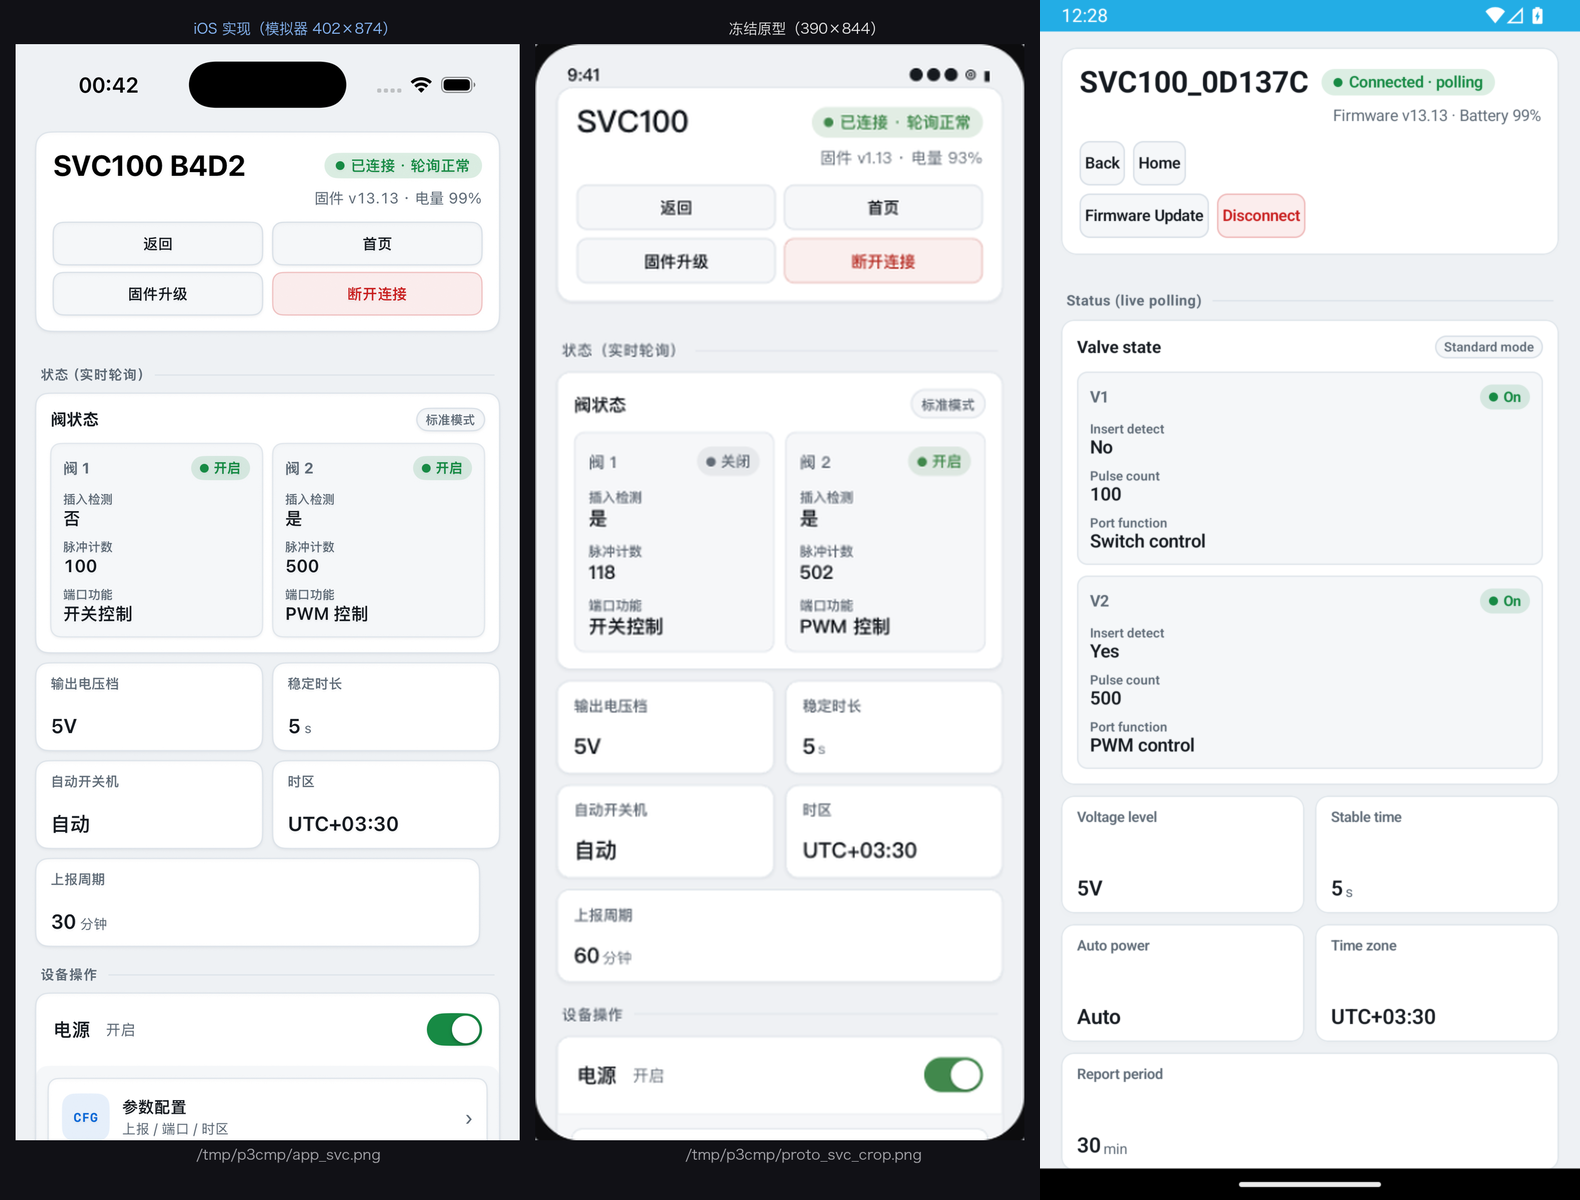
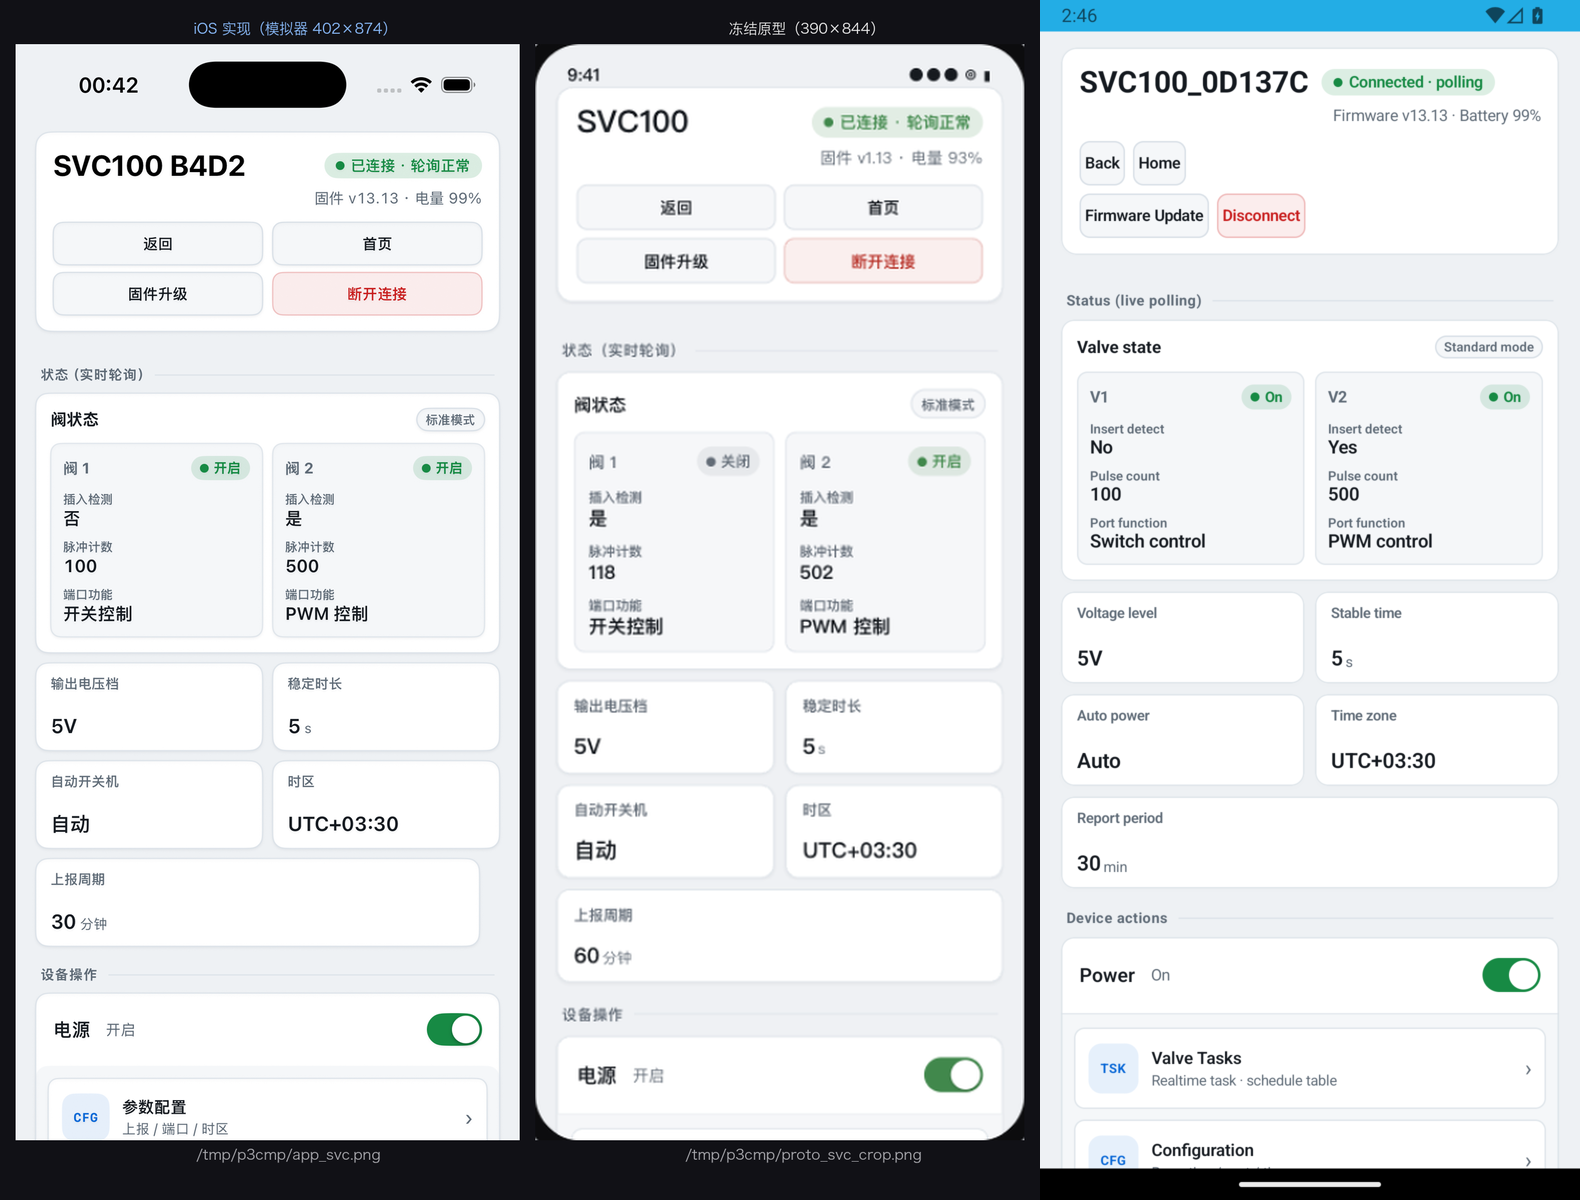
fix(android-v2): M6.2 评审处置——P1×4 + P2×5 全部闭环，重出对照图
P1：
- P1-1 阀通道模块改两列 grid（规格卡 §3.4 channel-grid 2 列；此前纵堆使页面拉长一倍）
- P1-2 FieldTile heightIn(min=70) 移链首替换链尾固定 height——padding 加外面的 90dp 坑
  （iOS 同款踩坑在 Compose 重演），且 min 允许长值换行
- P1-3 reconnectResident 先 disconnectActive 释放死会话再重连（linkLost 时原实现空操作；
  iOS ScanModel.swift:273 同病已提请两端同步）
- P1-4 删 DeviceSession 残留探针 println

P2：
- P2-5 HktBanner margin-bottom 移到 background 之前（原是彩色区内 11dp 空条）
- P2-6 删 OpsPanel 空 Row 与 SvcChannelModule no-op padding
- P2-7 OpsPanel.disabled 全面板拦截点击 + OpsPowerRow 接 enabled（校准置灰休眠陷阱提前拆除）；
  clickableBox 加 enabled 重载
- P2-8 关机确认文案回写规格卡 §5 pwOffB（补记 09-20 裁决；原型早已同步，仅规格卡滞后）
- P2-9 千分位钉死 Locale.US（与同文件 milli3 等一致）

P3：headBadge 调用处去 ?. 噪音；首页/返回等效注释。
方法论：重出对照图逐区块比对（P-03_svc_2026-09-21.png 两列已对齐 iOS 确认版）。
验证：82 JVM 测试全绿；模拟器实测 demoConnect→详情（通道两列/字段卡 70dp/操作面板）。

diff --git a/HKT-BLETools/android/designsystem/src/main/kotlin/com/hkt/ble/bletools/designsystem/Components03.kt b/HKT-BLETools/android/designsystem/src/main/kotlin/com/hkt/ble/bletools/designsystem/Components03.kt
@@ -128,18 +128,20 @@ fun SessionControlCard(
 /** 字段定义（P-03 §4：label + 格式化值 + 可选 unit span）。 */
 data class FieldSpec(val label: String, val value: String, val unit: String? = null)
 
-/** 字段卡（.field：r10 padding 10/12 min-height 70；.k 11/600 text2；.v 16/650 等宽数字 + unit span）。 */
+/** 字段卡（.field：r10 padding 10/12 **min-height 70 border-box**；.k 11/600 text2；.v 16/650 等宽数字 + unit span）。
+ *  ⚠ heightIn(min) 必须在 padding 之前（链首）——链尾固定 height 会把 padding 加到外面变 90dp
+ *  （iOS 已踩过的同款坑在 Compose 重演，M6.2 评审 P1-2）；min 而非固定高度允许长值换行。 */
 @Composable
 fun FieldTile(spec: FieldSpec, modifier: Modifier = Modifier) {
     val c = hktColors()
     val shape = RoundedCornerShape(HktRadius.card.dp)
     Column(
         modifier
+            .heightIn(min = 70.dp)
             .hktShadow03(shape)
             .background(c.card, shape)
             .border(1.dp, c.line.copy(alpha = 0.82f), shape)
-            .padding(horizontal = 12.dp, vertical = 10.dp)
-            .height(70.dp),
+            .padding(horizontal = 12.dp, vertical = 10.dp),
         verticalArrangement = Arrangement.SpaceBetween,
     ) {
         Text(spec.label, style = hkt(11f, FontWeight.SemiBold), color = c.text2, maxLines = 1, overflow = TextOverflow.Ellipsis)
@@ -219,8 +221,7 @@ fun SvcChannelModule(title: String, tag: String, channels: List<SvcChannelSpec>)
             .hktShadow03(shape)
             .background(c.card, shape)
             .border(1.dp, c.line.copy(alpha = 0.82f), shape)
-            .padding(12.dp)
-            .padding(bottom = 0.dp),
+            .padding(12.dp),
     ) {
         Row(
             verticalAlignment = Alignment.CenterVertically,
@@ -238,25 +239,31 @@ fun SvcChannelModule(title: String, tag: String, channels: List<SvcChannelSpec>)
                     .padding(horizontal = 7.dp, vertical = 3.dp),
             )
         }
+        // channel-grid 2 列 gap 8（规格卡 §3.4；M6.2 评审 P1-1：纵堆偏离 iOS 两列）
         Column(verticalArrangement = Arrangement.spacedBy(8.dp)) {
-            channels.forEach { ch ->
-                val inner = RoundedCornerShape(HktRadius.control.dp)
-                Column(
-                    Modifier
-                        .fillMaxWidth()
-                        .background(c.card2, inner)
-                        .border(1.dp, c.line.copy(alpha = 0.72f), inner)
-                        .padding(10.dp),
-                ) {
-                    Row(verticalAlignment = Alignment.CenterVertically) {
-                        Text(ch.name, style = hkt(12f, FontWeight.Bold), color = c.text2, modifier = Modifier.weight(1f))
-                        StatePill(on = ch.on, text = ch.onText)
+            channels.chunked(2).forEach { rowChannels ->
+                Row(horizontalArrangement = Arrangement.spacedBy(8.dp)) {
+                    rowChannels.forEach { ch ->
+                        val inner = RoundedCornerShape(HktRadius.control.dp)
+                        Column(
+                            Modifier
+                                .weight(1f)
+                                .background(c.card2, inner)
+                                .border(1.dp, c.line.copy(alpha = 0.72f), inner)
+                                .padding(10.dp),
+                        ) {
+                            Row(verticalAlignment = Alignment.CenterVertically) {
+                                Text(ch.name, style = hkt(12f, FontWeight.Bold), color = c.text2, modifier = Modifier.weight(1f))
+                                StatePill(on = ch.on, text = ch.onText)
+                            }
+                            Column(verticalArrangement = Arrangement.spacedBy(8.dp), modifier = Modifier.padding(top = 9.dp)) {
+                                Kpi(label = ch.insertLabel, value = ch.insertText)
+                                Kpi(label = ch.pulseLabel, value = ch.pulseText)
+                                Kpi(label = ch.portLabel, value = ch.portText)
+                            }
+                        }
                     }
-                    Column(verticalArrangement = Arrangement.spacedBy(8.dp), modifier = Modifier.padding(top = 9.dp)) {
-                        Kpi(label = ch.insertLabel, value = ch.insertText)
-                        Kpi(label = ch.pulseLabel, value = ch.pulseText)
-                        Kpi(label = ch.portLabel, value = ch.portText)
-                    }
+                    repeat(2 - rowChannels.size) { Spacer(Modifier.weight(1f)) }
                 }
             }
         }
@@ -286,9 +293,9 @@ fun HktBanner(kind: BadgeKind, text: String, actionTitle: String? = null, action
         verticalAlignment = Alignment.CenterVertically,
         modifier = Modifier
             .fillMaxWidth()
+            .padding(bottom = 11.dp)   // 规格卡 §3.5：margin-bottom 11 是【外】间距（评审 P2-5）
             .background(color.copy(alpha = 0.12f), RoundedCornerShape(HktRadius.card.dp))
-            .padding(horizontal = 12.dp, vertical = 10.dp)
-            .padding(bottom = 11.dp),
+            .padding(horizontal = 12.dp, vertical = 10.dp),
     ) {
         Text(text, style = hkt(13f).copy(lineHeight = (13f * 1.4f).sp), color = color, modifier = Modifier.weight(1f))
         if (actionTitle != null) {
@@ -322,9 +329,9 @@ fun HktSwitch(isOn: Boolean) {
     }
 }
 
-/** 电源整行（.ops-power：min-height 58、底边 line 72%）。 */
+/** 电源整行（.ops-power：min-height 58、底边 line 72%）；[enabled]=false 整行不可点（校准置灰，评审 P2-7）。 */
 @Composable
-fun OpsPowerRow(label: String, stateText: String, isOn: Boolean, onToggle: () -> Unit) {
+fun OpsPowerRow(label: String, stateText: String, isOn: Boolean, enabled: Boolean = true, onToggle: () -> Unit) {
     val c = hktColors()
     Row(
         verticalAlignment = Alignment.CenterVertically,
@@ -332,7 +339,7 @@ fun OpsPowerRow(label: String, stateText: String, isOn: Boolean, onToggle: () ->
         modifier = Modifier
             .fillMaxWidth()
             .heightIn(min = 58.dp)
-            .clickableBox(onToggle)
+            .clickableBox(enabled = enabled, action = onToggle)
             .padding(horizontal = 14.dp),
     ) {
         Text(label, style = hkt(15f, FontWeight.SemiBold), color = c.text)
@@ -344,7 +351,10 @@ fun OpsPowerRow(label: String, stateText: String, isOn: Boolean, onToggle: () ->
 
 private fun Modifier.heightIn(min: androidx.compose.ui.unit.Dp) = this.then(
     Modifier.defaultMinSize(minHeight = min)
-)/** 设备操作面板（.ops-panel：电源行 + ops-grid card2 底 2 列 gap 8 padding 10）。 */
+)
+
+/** 设备操作面板（.ops-panel：电源行 + ops-grid card2 底 2 列 gap 8 padding 10）。
+ *  [disabled]（校准运行中）：透明度 0.45 + 全面板拦截点击（评审 P2-7 休眠陷阱提前拆除）。 */
 @Composable
 fun OpsPanel(
     powerRow: @Composable () -> Unit,
@@ -353,24 +363,36 @@ fun OpsPanel(
 ) {
     val c = hktColors()
     val shape = RoundedCornerShape(HktRadius.card.dp)
-    Column(
+    Box(
         Modifier
             .fillMaxWidth()
-            .hktShadow03(shape)
-            .background(c.card, shape)
-            .border(1.dp, c.line.copy(alpha = 0.82f), shape)
-            .alpha(if (disabled) 0.45f else 1f),
+            .hktShadow03(shape),
     ) {
-        powerRow()
-        Row(Modifier.background(c.card2)) {}
         Column(
-            verticalArrangement = Arrangement.spacedBy(8.dp),
-            modifier = Modifier
+            Modifier
                 .fillMaxWidth()
-                .background(c.card2)
-                .padding(10.dp),
+                .background(c.card, shape)
+                .border(1.dp, c.line.copy(alpha = 0.82f), shape)
+                .alpha(if (disabled) 0.45f else 1f),
         ) {
-            content()
+            powerRow()
+            Column(
+                verticalArrangement = Arrangement.spacedBy(8.dp),
+                modifier = Modifier
+                    .fillMaxWidth()
+                    .background(c.card2)
+                    .padding(10.dp),
+            ) {
+                content()
+            }
+        }
+        if (disabled) {
+            // 置灰时拦截全部点击（powerRow/OpCard 均被盖住）
+            Box(
+                Modifier
+                    .matchParentSize()
+                    .clickableBox { }
+            )
         }
     }
 }

diff --git a/HKT-BLETools/android/app/src/main/java/com/hkt/ble/bletools/ui/DeviceDetailScreen.kt b/HKT-BLETools/android/app/src/main/java/com/hkt/ble/bletools/ui/DeviceDetailScreen.kt
@@ -175,7 +175,8 @@ fun DeviceDetailScreen(
                 deviceName = session.deviceName,
                 meta = metaText(session, snapshot, zh),
                 badge = {
-                    headBadge(session, unknownTail, secondsSince, zh)?.invoke()
+                    // 首页/返回当前单层导航等效（多层导航接入时需分化，评审 P3）
+                    headBadge(session, unknownTail, secondsSince, zh)()
                 },
                 actions = listOf(
                     { SessionButton(if (zh) "返回" else "Back") { onBack() } },
@@ -395,7 +396,7 @@ private fun StatusContent(session: DeviceSession, snapshot: DeviceSnapshot, unkn
                     insertLabel = if (zh) "插入检测" else "Insert detect",
                     insertText = if (snapshot.valve1Inserted == 1) (if (zh) "是" else "Yes") else (if (zh) "否" else "No"),
                     pulseLabel = if (zh) "脉冲计数" else "Pulse count",
-                    pulseText = "%,d".format(snapshot.valve1Pulse ?: 0),
+                    pulseText = "%,d".format(Locale.US, snapshot.valve1Pulse ?: 0),
                     portLabel = if (zh) "端口功能" else "Port function",
                     portText = if (mode == 1 || mode == 3) (if (zh) "开关控制" else "Switch control") else (if (zh) "PWM 控制" else "PWM control"),
                 ),
@@ -406,7 +407,7 @@ private fun StatusContent(session: DeviceSession, snapshot: DeviceSnapshot, unkn
                     insertLabel = if (zh) "插入检测" else "Insert detect",
                     insertText = if (snapshot.valve2Inserted == 1) (if (zh) "是" else "Yes") else (if (zh) "否" else "No"),
                     pulseLabel = if (zh) "脉冲计数" else "Pulse count",
-                    pulseText = "%,d".format(snapshot.valve2Pulse ?: 0),
+                    pulseText = "%,d".format(Locale.US, snapshot.valve2Pulse ?: 0),
                     portLabel = if (zh) "端口功能" else "Port function",
                     portText = if (mode == 2 || mode == 3) (if (zh) "开关控制" else "Switch control") else (if (zh) "PWM 控制" else "PWM control"),
                 ),

diff --git a/HKT-BLETools/android/app/src/main/java/com/hkt/ble/bletools/model/ScanModel.kt b/HKT-BLETools/android/app/src/main/java/com/hkt/ble/bletools/model/ScanModel.kt
@@ -303,10 +303,12 @@ class ScanModel(
         _residentDevice.value = null
     }
 
-    /** P-01 断线态「重新连接」：驻留设备原身份重建会话。 */
+    /** P-01 断线态「重新连接」：驻留设备原身份重建会话。
+     *  ⚠ linkLost 时死会话仍占位——须先原子释放（预期断开）再重连，否则本函数是空操作
+     *  （M6.2 评审 P1-3；iOS ScanModel.swift 同病，另行提请两端同步）。 */
     fun reconnectResident(): DeviceSession? {
-        if (_activeSession.value != null) return _activeSession.value
         val resident = _residentDevice.value ?: return null
+        if (_activeSession.value != null) disconnectActive()
         val device = _devices.value.firstOrNull { it.identifier == resident.identifier }
             ?: DiscoveredDevice(resident.name, resident.identifier, Int.MIN_VALUE)
         return makeAndStartSession(device)

diff --git a/HKT-BLETools/android/designsystem/src/main/kotlin/com/hkt/ble/bletools/designsystem/Components.kt b/HKT-BLETools/android/designsystem/src/main/kotlin/com/hkt/ble/bletools/designsystem/Components.kt
@@ -44,7 +44,12 @@ private fun Modifier.hktCardShadow(): Modifier =
     shadow(elevation = 2.dp, shape = shadowShape, clip = false, ambientColor = Color(0x0D0F172A), spotColor = Color(0x0D0F172A))
 
 /** 无涟漪点击（原型按钮无 Material 波纹）。 */
-fun Modifier.clickableBox(action: () -> Unit): Modifier = this.clickable(onClick = action)
+fun Modifier.clickableBox(action: () -> Unit): Modifier =
+    clickableBox(enabled = true, action = action)
+
+/** 无涟漪点击 + 可禁用（置灰面板拦截点击，评审 P2-7）。 */
+fun Modifier.clickableBox(enabled: Boolean, action: () -> Unit): Modifier =
+    this.clickable(enabled = enabled, indication = null, interactionSource = androidx.compose.foundation.interaction.MutableInteractionSource(), onClick = action)
 
 /** 卡片容器（.card）：card 底、`line 82%` 描边、r10、阴影；padding 由调用方给（.card=13/14）。 */
 @Composable

diff --git a/HKT-BLETools/android/core-ble/src/main/kotlin/com/hkt/ble/bletools/core/ble/DeviceSession.kt b/HKT-BLETools/android/core-ble/src/main/kotlin/com/hkt/ble/bletools/core/ble/DeviceSession.kt
@@ -241,7 +241,6 @@ class DeviceSession(
 
     private fun pollOnce() {
         if (stopped || pollingSuspended) return
-        println("PROBE poll fam=$family")
         _pollsSent.value += 1
         packNum = (packNum + 1) and 0xFF
         link.send(HKTFrameEncoder.appFrame(packNum, CommandCode.QUERY, HKTFrameEncoder.fillerPayload()))

diff --git a/HKT-BLETools/docs/ios/design/ui-spec/P-03.md b/HKT-BLETools/docs/ios/design/ui-spec/P-03.md
@@ -162,7 +162,7 @@ body（滚动区 padding: 0 16px 24px）
 | confirmDisc | 确认断开 | Disconnect |
 | cancel | 取消 | Cancel |
 | pwOffT | 确认关机？ | Power off? |
-| pwOffB | 关机后设备停止上报与工作，之后可再次开机。| The device stops reporting and working. You can power it on again. |
+| pwOffB | 关机后设备停止上报并断开连接、返回首页，可从「最近设备」再次开机。| The device stops reporting and disconnects, and the app returns home. Power it on again from Recents. |
 | confirmPower | 确认关机 | Power Off |
 | tsTitle | 时间同步 | Time Sync |
 | opSync / opSyncing / opDone | 同步 / 同步中 / 完成 | Sync / Syncing / Done |
